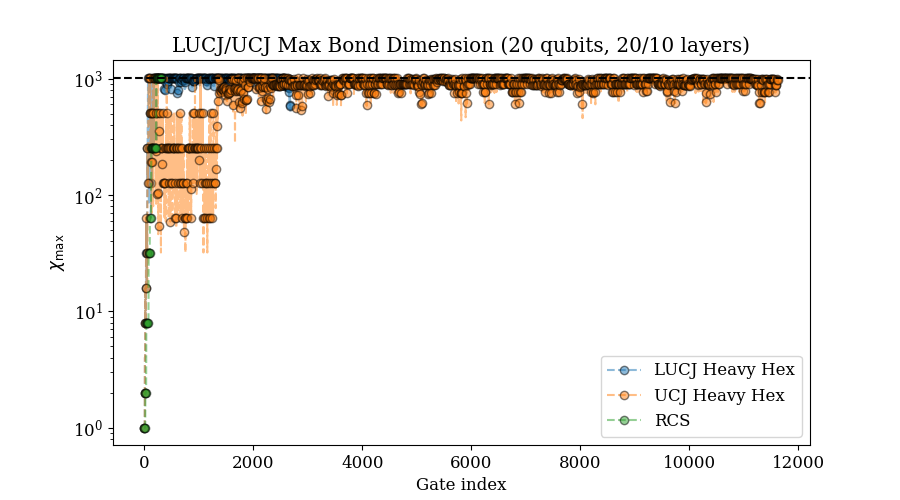
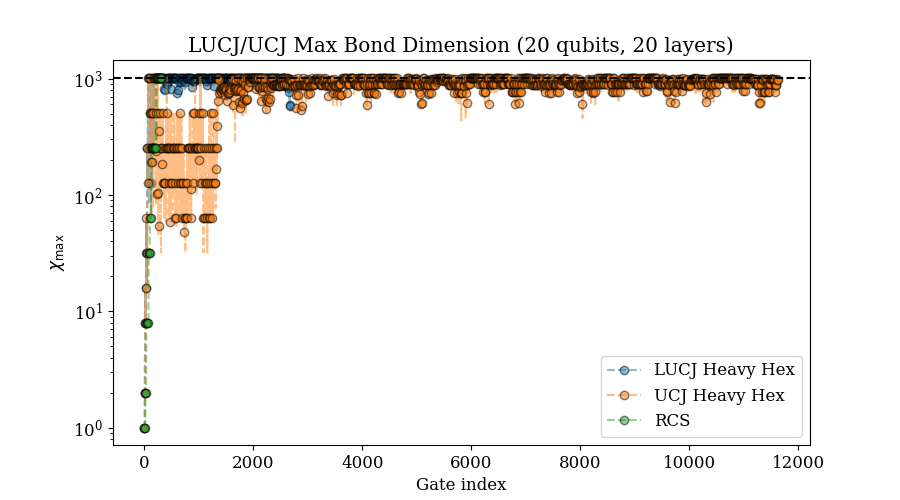
Corrected plot information

Changed region(s): [[0.1867, 0.06, 0.84, 0.12]]

diff --git a/src/matrix_data/plot_data.py b/src/matrix_data/plot_data.py
@@ -38,7 +38,7 @@ nlayers = metadata["n_layers"]
 
 plt.figure(figsize=(9,5))
 
-plt.title(f"LUCJ/UCJ Max Bond Dimension ({nqubits} qubits, {nlayers}/{nlayers//2} layers)")
+plt.title(f"LUCJ/UCJ Max Bond Dimension ({nqubits} qubits, {nlayers} layers)")
 
 plt.semilogy(lucj_sq, "--o", markevery=10, color="C0", mec="black", alpha=0.5, label=f"LUCJ Square")
 plt.semilogy(ucj_sq, "--o", markevery=10, color="C1", mec="black", alpha=0.5, label=f"UCJ Square")
@@ -56,7 +56,7 @@ plt.savefig("matrix_square.png")
 plt.clf()
 
 
-plt.title(f"LUCJ/UCJ Max Bond Dimension ({nqubits} qubits, {nlayers}/{nlayers//2} layers)")
+plt.title(f"LUCJ/UCJ Max Bond Dimension ({nqubits} qubits, {nlayers} layers)")
 
 plt.semilogy(lucj_hh, "--o", markevery=10, color="C0", mec="black", alpha=0.5, label=f"LUCJ Heavy Hex")
 plt.semilogy(ucj_hh, "--o", markevery=10, color="C1", mec="black", alpha=0.5, label=f"UCJ Heavy Hex")
@@ -70,11 +70,11 @@ plt.xlabel("Gate index")
 plt.ylabel(r"$\chi_\text{max}$");
 
 plt.savefig("matrix_hex.png")
-        
+
 plt.clf()
 
 
-plt.title(f"LUCJ/UCJ Max Bond Dimension ({nqubits} qubits, {nlayers}/{nlayers//2} layers)")
+plt.title(f"LUCJ/UCJ Max Bond Dimension ({nqubits} qubits, {nlayers} layers)")
 
 plt.semilogy(lucj_aa, "--o", markevery=10, color="C0", mec="black", alpha=0.5, label=f"LUCJ All to All")
 plt.semilogy(ucj_aa, "--o", markevery=10, color="C1", mec="black", alpha=0.5, label=f"UCJ All to All")

diff --git a/src/matrix_data/half_plot.py b/src/matrix_data/half_plot.py
@@ -38,7 +38,7 @@ nlayers = metadata["n_layers"]
 
 plt.figure(figsize=(9,5))
 
-plt.title(f"LUCJ/UCJ Max Bond Dimension ({nqubits} qubits, {nlayers}/{nlayers//2} layers)")
+plt.title(f"LUCJ/UCJ Max Bond Dimension ({nqubits} qubits, {nlayers} layers)")
 
 plt.semilogy(lucj_sq, "--o", markevery=10, color="C0", mec="black", alpha=0.5, label=f"LUCJ Square")
 plt.axvline(4870, ls="--", color="C0", alpha=0.7)
@@ -59,7 +59,7 @@ plt.savefig("40_matrix_square.png")
 plt.clf()
 
 
-plt.title(f"LUCJ/UCJ Max Bond Dimension ({nqubits} qubits, {nlayers}/{nlayers//2} layers)")
+plt.title(f"LUCJ/UCJ Max Bond Dimension ({nqubits} qubits, {nlayers} layers)")
 
 plt.semilogy(lucj_hh, "--o", markevery=10, color="C0", mec="black", alpha=0.5, label=f"LUCJ Heavy Hex")
 plt.axvline(4830, ls="--", color="C0", alpha=0.7)
@@ -80,7 +80,7 @@ plt.savefig("40_matrix_hex.png")
 plt.clf()
 
 
-plt.title(f"LUCJ/UCJ Max Bond Dimension ({nqubits} qubits, {nlayers}/{nlayers//2} layers)")
+plt.title(f"LUCJ/UCJ Max Bond Dimension ({nqubits} qubits, {nlayers} layers)")
 
 plt.semilogy(lucj_aa, "--o", markevery=10, color="C0", mec="black", alpha=0.5, label=f"LUCJ All to All")
 plt.axvline(5000, ls="--", color="C0", alpha=0.7)